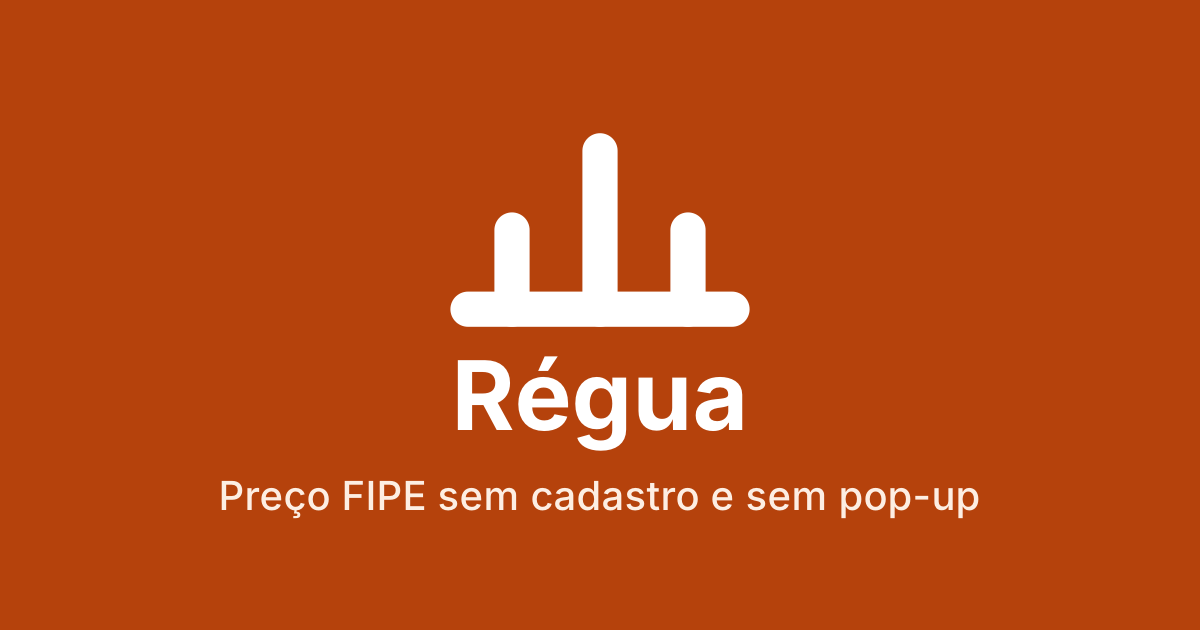
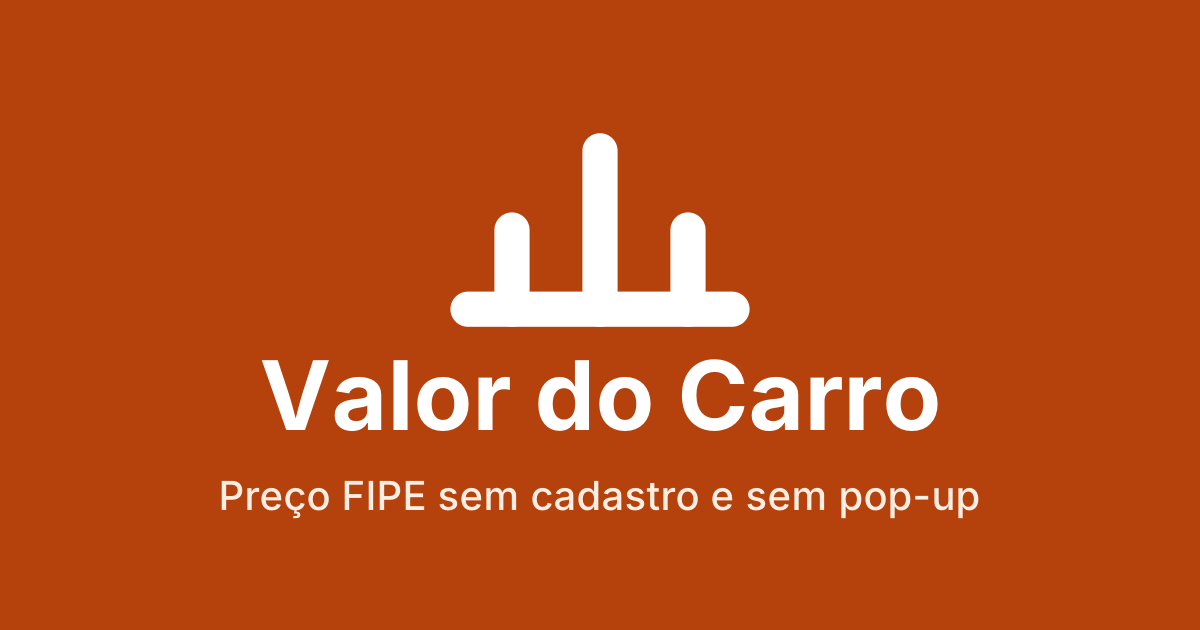
Rename the app to Valor do Carro
Display name, every screen (home, about, Plus, plate, consultant, sale
card, report, not-found), the consultant's prompt, the website and legal
pages, store listing (title "Valor do Carro: Preço e Placa"), store
forms, publishing guide, workflow names and the APK release title, with
the Portuguese articles switched to masculine (a Régua -> o Valor do
Carro). Logo, social image and Google Play feature graphic regenerated;
home store screenshots retaken. Package id, scheme and product ids are
unchanged, so installed apps update in place and purchases keep working.

Claude-Session: https://claude.ai/code/session_01LWRe1Kg9LAPnQmJb5DTp4G

Changed region(s): [[0.2158, 0.573, 0.8017, 0.7238]]

diff --git a/regua-app/app/landing/suporte.html b/regua-app/app/landing/suporte.html
@@ -1,20 +1,20 @@
 <!doctype html>
 <html lang="pt-BR"><head><meta charset="utf-8"><meta name="viewport" content="width=device-width,initial-scale=1">
 <link rel="icon" href="favicon.png"><link rel="stylesheet" href="legal.css">
-<title>Suporte · Régua</title>
-<meta name="description" content="Ajuda da Régua: assinatura, dados, anúncios e contato.">
+<title>Suporte · Valor do Carro</title>
+<meta name="description" content="Ajuda do Valor do Carro: assinatura, dados, anúncios e contato.">
 </head><body>
-<header><a href="index.html"><img src="icon.png" alt="">Régua</a></header>
+<header><a href="index.html"><img src="icon.png" alt="">Valor do Carro</a></header>
 <main>
 <h1>Ajuda e suporte</h1>
 <p>Não achou a resposta? Escreva para <strong class="todo">[e-mail de suporte]</strong>. Respondemos em até 2 dias úteis.</p>
 
 <h2>Consultas</h2>
 <details><summary>Preciso criar conta?</summary><p>Não. A consulta é grátis e sem cadastro.</p></details>
-<details><summary>De onde vêm os preços?</summary><p>Da tabela FIPE, atualizada todo mês. A Régua não é afiliada à FIPE.</p></details>
-<details><summary>Como funciona a busca por placa?</summary><p>Digite a placa no início do app (formato antigo ABC1234 ou Mercosul ABC1D23). A Régua descobre o modelo e abre o preço FIPE. São 3 buscas por placa por dia no plano grátis e 30 no Plus. A busca por marca e modelo não tem limite.</p></details>
+<details><summary>De onde vêm os preços?</summary><p>Da tabela FIPE, atualizada todo mês. O Valor do Carro não é afiliado à FIPE.</p></details>
+<details><summary>Como funciona a busca por placa?</summary><p>Digite a placa no início do app (formato antigo ABC1234 ou Mercosul ABC1D23). O Valor do Carro descobre o modelo e abre o preço FIPE. São 3 buscas por placa por dia no plano grátis e 30 no Plus. A busca por marca e modelo não tem limite.</p></details>
 <details><summary>A placa mostrou o modelo errado ou várias versões</summary><p>Os dados vêm de um fornecedor de consulta veicular e às vezes uma placa corresponde a mais de uma versão na tabela FIPE. Escolha a sua na lista ou busque pela marca e pelo modelo.</p></details>
-<details><summary>Vocês mostram o dono do veículo?</summary><p>Não. A Régua não recebe nem mostra dados pessoais do proprietário.</p></details>
+<details><summary>Vocês mostram o dono do veículo?</summary><p>Não. O Valor do Carro não recebe nem mostra dados pessoais do proprietário.</p></details>
 <details><summary>Quando a tabela do mês aparece?</summary><p>Assim que a nova tabela é publicada e importada, normalmente nos primeiros dias do mês. A tela de preço mostra de qual mês é o valor.</p></details>
 <details><summary>Por que o preço é diferente do anúncio que eu vi?</summary><p>A tabela FIPE é uma média de referência. O preço real varia com o estado, a quilometragem, a região e a versão do veículo.</p></details>
 <details><summary>Meus favoritos sumiram</summary><p>Favoritos e histórico ficam só no aparelho. Se você trocou de celular, desinstalou o app ou limpou os dados dele, eles foram apagados.</p></details>
@@ -29,10 +29,10 @@
 <details><summary>Paguei e o relatório não apareceu</summary><p>Sua compra fica guardada no aparelho. Abra Ferramentas › Histórico do veículo e toque em "Buscar meu relatório". Se a placa não for encontrada, a mesma compra vale para tentar de novo. Se não resolver, fale com a gente com o número do pedido da loja.</p></details>
 <details><summary>Onde vejo os relatórios que comprei?</summary><p>Em Histórico do veículo › Meus relatórios, neste aparelho.</p></details>
 
-<h2>Régua Plus</h2>
+<h2>Valor do Carro Plus</h2>
 <details><summary>O que o Plus inclui?</summary><p>Uso sem anúncios, até 30 buscas por placa e 50 perguntas ao Consultor por dia. A consulta por marca e modelo é igual nos dois planos.</p></details>
 <details><summary>Como cancelo?</summary><p>No app, em <em>Sobre › Gerenciar ou cancelar assinatura</em>. Ou direto na loja: no Android, Google Play › seu perfil › Pagamentos e assinaturas › Assinaturas; no iPhone, Ajustes › seu nome › Assinaturas. O Plus continua até o fim do período já pago.</p></details>
-<details><summary>Troquei de celular e o Plus não aparece</summary><p>Abra <em>Sobre › Régua Plus</em> e toque em <em>Restaurar compra</em>, usando a mesma conta Google ou Apple da assinatura.</p></details>
+<details><summary>Troquei de celular e o Plus não aparece</summary><p>Abra <em>Sobre › Valor do Carro Plus</em> e toque em <em>Restaurar compra</em>, usando a mesma conta Google ou Apple da assinatura.</p></details>
 <details><summary>Quero reembolso</summary><p>A cobrança é feita pela loja. Peça pela Google Play (play.google.com › Histórico de pedidos) ou pela Apple (reportaproblem.apple.com). Se tiver dificuldade, fale com a gente.</p></details>
 
 <h2>Anúncios e privacidade</h2>

diff --git a/regua-app/app/landing/termos.html b/regua-app/app/landing/termos.html
@@ -1,21 +1,21 @@
 <!doctype html>
 <html lang="pt-BR"><head><meta charset="utf-8"><meta name="viewport" content="width=device-width,initial-scale=1">
 <link rel="icon" href="favicon.png"><link rel="stylesheet" href="legal.css">
-<title>Termos de uso · Régua</title>
-<meta name="description" content="Termos de uso do app Régua e da assinatura Régua Plus.">
+<title>Termos de uso · Valor do Carro</title>
+<meta name="description" content="Termos de uso do app Valor do Carro e da assinatura Valor do Carro Plus.">
 </head><body>
-<header><a href="index.html"><img src="icon.png" alt="">Régua</a></header>
+<header><a href="index.html"><img src="icon.png" alt="">Valor do Carro</a></header>
 <main>
 <h1>Termos de uso</h1>
 <p class="muted">Última atualização: 14 de outubro de 2026</p>
 <p class="todo">Fornecedor: <strong>[nome completo ou razão social e CPF/CNPJ]</strong>, contato <strong>[e-mail]</strong>.</p>
 
-<h2>1. O que a Régua faz</h2>
-<p>A Régua mostra preços de veículos com base na tabela FIPE. Os valores são uma <strong>referência</strong>: o preço praticado no mercado pode variar com o estado do veículo, a região, a versão e outros fatores. Não use a Régua como única base para comprar, vender, financiar ou fazer seguro.</p>
-<p>A Régua não é afiliada, patrocinada nem endossada pela Fundação Instituto de Pesquisas Econômicas (FIPE).</p>
+<h2>1. O que o Valor do Carro faz</h2>
+<p>O Valor do Carro mostra preços de veículos com base na tabela FIPE. Os valores são uma <strong>referência</strong>: o preço praticado no mercado pode variar com o estado do veículo, a região, a versão e outros fatores. Não use o Valor do Carro como única base para comprar, vender, financiar ou fazer seguro.</p>
+<p>O Valor do Carro não é afiliado, patrocinado nem endossado pela Fundação Instituto de Pesquisas Econômicas (FIPE).</p>
 
 <h2>2. Uso gratuito</h2>
-<p>Consultar preços é grátis e não exige cadastro. A versão gratuita exibe um banner de anúncio. A Régua nunca mostra anúncios de tela cheia ou pop-ups.</p>
+<p>Consultar preços é grátis e não exige cadastro. A versão gratuita exibe um banner de anúncio. O Valor do Carro nunca mostra anúncios de tela cheia ou pop-ups.</p>
 
 <h2>2a. Busca por placa</h2>
 <p>A busca por placa usa um fornecedor de dados veiculares e tem limite diário por aparelho (3 consultas no plano grátis, 30 no Plus). Os dados vêm de terceiros e podem estar incompletos ou desatualizados; quando a placa corresponde a mais de uma versão, você escolhe a sua. Não mostramos dados do proprietário.</p>
@@ -26,7 +26,7 @@
 <h2>2c. Relatório de histórico do veículo</h2>
 <p>O relatório de histórico é uma compra avulsa feita pela loja: cada compra gera um relatório para uma placa. Os dados (leilão, roubo ou furto, sinistro, financiamento, restrições e recall) vêm de bases de terceiros, na data da consulta, e podem estar incompletos ou desatualizados; "sem informação" não significa ausência de registro. Se o relatório não puder ser gerado (serviço fora do ar ou placa não encontrada), sua compra continua válida para tentar de novo, inclusive com outra placa. O relatório fica salvo no seu aparelho. Não mostramos dados do proprietário. Confirme sempre no Detran e faça vistoria antes de comprar.</p>
 
-<h2>3. Régua Plus</h2>
+<h2>3. Valor do Carro Plus</h2>
 <ul>
 <li>O Plus remove os anúncios e aumenta os limites de buscas por placa e de perguntas ao Consultor. A consulta de preços por marca e modelo continua igual nos dois planos.</li>
 <li>É uma assinatura mensal ou anual, cobrada pela Google Play ou pela App Store, com renovação automática até você cancelar. O preço é o mostrado pela loja no momento da compra.</li>
@@ -36,10 +36,10 @@
 </ul>
 
 <h2>4. Disponibilidade</h2>
-<p>Fazemos o possível para manter a Régua no ar e com a tabela do mês, mas podem ocorrer interrupções, atrasos na atualização ou erros nos dados de terceiros. Quando soubermos de um erro, corrigimos assim que possível.</p>
+<p>Fazemos o possível para manter o Valor do Carro no ar e com a tabela do mês, mas podem ocorrer interrupções, atrasos na atualização ou erros nos dados de terceiros. Quando soubermos de um erro, corrigimos assim que possível.</p>
 
 <h2>5. Uso permitido</h2>
-<p>Não é permitido copiar o banco de dados em massa, fazer engenharia reversa para extrair dados ou usar a Régua de forma que prejudique o serviço ou outras pessoas.</p>
+<p>Não é permitido copiar o banco de dados em massa, fazer engenharia reversa para extrair dados ou usar o Valor do Carro de forma que prejudique o serviço ou outras pessoas.</p>
 
 <h2>6. Responsabilidade</h2>
 <p>Na medida permitida pela lei, não respondemos por decisões tomadas apenas com base nos valores exibidos. Nada nestes termos limita direitos garantidos pelo Código de Defesa do Consumidor.</p>

diff --git a/regua-app/app/landing/privacidade.html b/regua-app/app/landing/privacidade.html
@@ -1,15 +1,15 @@
 <!doctype html>
 <html lang="pt-BR"><head><meta charset="utf-8"><meta name="viewport" content="width=device-width,initial-scale=1">
 <link rel="icon" href="favicon.png"><link rel="stylesheet" href="legal.css">
-<title>Política de privacidade · Régua</title>
-<meta name="description" content="Como a Régua trata dados pessoais, conforme a LGPD.">
+<title>Política de privacidade · Valor do Carro</title>
+<meta name="description" content="Como o Valor do Carro trata dados pessoais, conforme a LGPD.">
 </head><body>
-<header><a href="index.html"><img src="icon.png" alt="">Régua</a></header>
+<header><a href="index.html"><img src="icon.png" alt="">Valor do Carro</a></header>
 <main>
 <h1>Política de privacidade</h1>
 <p class="muted">Última atualização: 14 de outubro de 2026</p>
 
-<p>A Régua é um app para consultar o preço de veículos na tabela FIPE. Ele foi feito para funcionar <strong>sem cadastro</strong>: você não informa nome, e-mail nem telefone para usar. Esta política explica, em linguagem simples, o pouco que é tratado e por quê, conforme a Lei Geral de Proteção de Dados (Lei nº 13.709/2018, LGPD).</p>
+<p>O Valor do Carro é um app para consultar o preço de veículos na tabela FIPE. Ele foi feito para funcionar <strong>sem cadastro</strong>: você não informa nome, e-mail nem telefone para usar. Esta política explica, em linguagem simples, o pouco que é tratado e por quê, conforme a Lei Geral de Proteção de Dados (Lei nº 13.709/2018, LGPD).</p>
 
 <h2>Quem é o responsável</h2>
 <p class="todo">Controlador: <strong>[nome completo ou razão social e CPF/CNPJ]</strong>. Contato para privacidade: <strong>[e-mail]</strong>.</p>
@@ -27,11 +27,11 @@
 <tr><td>Código aleatório do aparelho (criado na primeira busca por placa)</td><td>Aplicar o limite diário de buscas por placa</td><td>Nós, no Supabase. Apagado após 7 dias</td><td>Legítimo interesse (art. 7º, IX)</td></tr>
 <tr><td>Placa do relatório de histórico (compra avulsa)</td><td>Gerar o relatório de histórico do veículo que você comprou</td><td>Enviada ao fornecedor de dados veiculares <strong class="todo">[nome do fornecedor de histórico]</strong>. Guardamos o relatório por 7 dias ligado só ao código irreversível da placa, e o código da compra para que ela seja usada uma única vez. O relatório comprado fica salvo no seu aparelho</td><td>Execução de contrato (art. 7º, V)</td></tr>
 <tr><td>Perguntas enviadas ao Consultor (e o veículo escolhido)</td><td>Gerar a resposta com inteligência artificial</td><td>Anthropic, PBC (modelo Claude), que processa a pergunta para responder. Nós não guardamos as perguntas nem as respostas; o histórico da conversa fica só no aparelho enquanto a tela está aberta</td><td>Execução do serviço que você pediu (art. 7º, V)</td></tr>
-<tr><td>Assinatura Régua Plus: um código anônimo de cliente e o recibo da compra</td><td>Liberar o Plus e permitir restaurar a compra em outro aparelho</td><td>RevenueCat, Inc., Google Play e App Store</td><td>Execução de contrato (art. 7º, V)</td></tr>
+<tr><td>Assinatura Valor do Carro Plus: um código anônimo de cliente e o recibo da compra</td><td>Liberar o Plus e permitir restaurar a compra em outro aparelho</td><td>RevenueCat, Inc., Google Play e App Store</td><td>Execução de contrato (art. 7º, V)</td></tr>
 </table></div>
 <p><strong>Pagamentos:</strong> são feitos inteiramente pela Google Play ou pela App Store. Nós nunca vemos nem guardamos dados do seu cartão.</p>
 <p><strong>Consultas de preço:</strong> o app busca os preços no nosso banco de dados. Essas buscas não são associadas a você.</p>
-<p><strong>Busca por placa:</strong> a Régua não recebe nem mostra dados do proprietário (nome, CPF, endereço). O fornecedor devolve apenas dados do veículo.</p>
+<p><strong>Busca por placa:</strong> o Valor do Carro não recebe nem mostra dados do proprietário (nome, CPF, endereço). O fornecedor devolve apenas dados do veículo.</p>
 
 <h2>O que não fazemos</h2>
 <ul>
@@ -61,7 +61,7 @@
 </ul>
 
 <h2>Crianças e adolescentes</h2>
-<p>A Régua não é direcionada a menores de 13 anos e não coleta conscientemente dados de crianças.</p>
+<p>O Valor do Carro não é direcionado a menores de 13 anos e não coleta conscientemente dados de crianças.</p>
 
 <h2>Segurança</h2>
 <p>As conexões são criptografadas (HTTPS). O acesso ao banco de dados é restrito por regras que impedem o app de ler as contagens de uso.</p>

diff --git a/regua-app/app/landing/index.html b/regua-app/app/landing/index.html
@@ -1,9 +1,9 @@
 <!doctype html>
 <html lang="pt-BR"><head><meta charset="utf-8"><meta name="viewport" content="width=device-width,initial-scale=1">
-<title>Régua: o preço FIPE, sem cadastro e sem pop-up</title>
+<title>Valor do Carro: o preço FIPE, sem cadastro e sem pop-up</title>
 <meta name="description" content="Consulte o preço de carros, motos e caminhões pela tabela FIPE. Sem cadastro, sem pop-up.">
 <link rel="icon" href="favicon.png">
-<meta property="og:title" content="Régua: o preço FIPE, sem cadastro e sem pop-up">
+<meta property="og:title" content="Valor do Carro: o preço FIPE, sem cadastro e sem pop-up">
 <meta property="og:description" content="Consulte o preço de carros, motos e caminhões pela tabela FIPE. Sem cadastro, sem pop-up.">
 <meta property="og:image" content="social.png">
 <meta name="twitter:card" content="summary_large_image">
@@ -80,7 +80,7 @@ footer{padding:32px 0 48px;font-size:14px;line-height:20px;color:var(--color-tex
 @media (min-width:760px){.hero{grid-template-columns:1.1fr .9fr}h1{font-size:40px;line-height:44px}.grid.three{grid-template-columns:repeat(3,1fr)}.grid.two{grid-template-columns:repeat(2,1fr)}.grid.five{grid-template-columns:repeat(2,1fr)}}
 </style></head>
 <body>
-<div class="wrap"><header>Régua</header></div>
+<div class="wrap"><header>Valor do Carro</header></div>
 <main>
 <div class="wrap hero">
   <div>
@@ -89,7 +89,7 @@ footer{padding:32px 0 48px;font-size:14px;line-height:20px;color:var(--color-tex
     <a class="btn" href="../prototype/dist/index.html">Ver o app funcionando</a>
     <p class="soon">Em breve na Google Play e na App Store.</p>
   </div>
-  <figure><img class="shot" src="assets/result.png" alt="Tela da Régua mostrando o preço de um veículo de exemplo, com a variação do mês e o gráfico de evolução"><figcaption class="caption">Dados de exemplo.</figcaption></figure>
+  <figure><img class="shot" src="assets/result.png" alt="Tela do Valor do Carro mostrando o preço de um veículo de exemplo, com a variação do mês e o gráfico de evolução"><figcaption class="caption">Dados de exemplo.</figcaption></figure>
 </div>
 
 <section class="band"><div class="wrap">
@@ -110,7 +110,7 @@ footer{padding:32px 0 48px;font-size:14px;line-height:20px;color:var(--color-tex
 </div></section>
 
 <section class="band"><div class="wrap">
-  <h2>O que a Régua faz</h2>
+  <h2>O que o Valor do Carro faz</h2>
   <div class="grid two">
     <div class="card"><h3>Sem cadastro</h3><p class="muted">Abriu, consultou.</p></div>
     <div class="card"><h3>Sem pop-up</h3><p class="muted">Se houver anúncio, é um banner fixo, nunca no meio do caminho.</p></div>
@@ -134,7 +134,7 @@ footer{padding:32px 0 48px;font-size:14px;line-height:20px;color:var(--color-tex
 <section class="band"><div class="wrap">
   <h2>Perguntas</h2>
   <details><summary>Preciso criar conta?</summary><p>Não, para consultar.</p></details>
-  <details><summary>De onde vêm os preços?</summary><p>Da tabela FIPE. A Régua não é afiliada à Fundação Instituto de Pesquisas Econômicas (FIPE).</p></details>
+  <details><summary>De onde vêm os preços?</summary><p>Da tabela FIPE. O Valor do Carro não é afiliado à Fundação Instituto de Pesquisas Econômicas (FIPE).</p></details>
   <details><summary>O preço da tabela é o preço de mercado?</summary><p>Nem sempre. É uma referência e pode variar com o estado, a versão e a conservação do veículo.</p></details>
   <details><summary>Funciona para moto e caminhão?</summary><p>Sim.</p></details>
   <details><summary>Tem consulta por placa?</summary><p>Sim: 3 por dia no plano grátis e 30 no Plus. Sem dados do proprietário.</p></details>
@@ -146,5 +146,5 @@ footer{padding:32px 0 48px;font-size:14px;line-height:20px;color:var(--color-tex
   <a class="btn" href="../prototype/dist/index.html">Ver o app funcionando</a>
 </div></section>
 </main>
-<footer><div class="wrap">Régua. Os valores seguem a tabela FIPE e podem variar do preço praticado no mercado.<br><a href="suporte.html">Suporte</a> · <a href="privacidade.html">Privacidade</a> · <a href="termos.html">Termos de uso</a></div></footer>
+<footer><div class="wrap">Valor do Carro. Os valores seguem a tabela FIPE e podem variar do preço praticado no mercado.<br><a href="suporte.html">Suporte</a> · <a href="privacidade.html">Privacidade</a> · <a href="termos.html">Termos de uso</a></div></footer>
 </body></html>

diff --git a/regua-app/app/app/plus.tsx b/regua-app/app/app/plus.tsx
@@ -1,4 +1,4 @@
-// Régua Plus: removes the ad. Lookups stay free forever; there is no paywall in front of a price.
+// Valor do Carro Plus: removes the ad. Lookups stay free forever; there is no paywall in front of a price.
 import { useEffect, useState } from 'react';
 import { Alert, Linking, Platform, Pressable, ScrollView, StyleSheet, Text, View } from 'react-native';
 import { SafeAreaView } from 'react-native-safe-area-context';
@@ -9,7 +9,7 @@ import { track } from '../src/services/track.ts';
 import { Button, Header, Loading, Message, st as kit } from '../src/ui/kit.tsx';
 import { c, card, r, s, font, layout } from '../src/theme.ts';
 
-const PERKS = ['Sem anúncio em nenhuma tela', 'Até 30 consultas por placa por dia (3 no grátis)', '50 perguntas por dia ao Consultor (5 no grátis)', 'Ajuda a manter a Régua grátis para todo mundo', 'Cancele quando quiser, com um toque'];
+const PERKS = ['Sem anúncio em nenhuma tela', 'Até 30 consultas por placa por dia (3 no grátis)', '50 perguntas por dia ao Consultor (5 no grátis)', 'Ajuda a manter o Valor do Carro grátis para todo mundo', 'Cancele quando quiser, com um toque'];
 
 export default function Plus() {
   const plus = usePlus();
@@ -34,19 +34,19 @@ export default function Plus() {
     setBusy(true);
     const ok = await plus.restore();
     setBusy(false);
-    Alert.alert(ok ? 'Régua Plus restaurado' : 'Nenhuma assinatura encontrada',
-      ok ? 'Obrigado por apoiar a Régua.' : 'Use a mesma conta da loja em que você assinou.');
+    Alert.alert(ok ? 'Valor do Carro Plus restaurado' : 'Nenhuma assinatura encontrada',
+      ok ? 'Obrigado por apoiar o Valor do Carro.' : 'Use a mesma conta da loja em que você assinou.');
   };
 
   let body;
   if (!plus.available) {
-    body = <Message title="Assinatura indisponível nesta versão" detail="A Régua Plus aparece na versão instalada pela Play Store ou App Store." />;
+    body = <Message title="Assinatura indisponível nesta versão" detail="O Valor do Carro Plus aparece na versão instalada pela Play Store ou App Store." />;
   } else if (plus.isPlus) {
     body = (
       <View style={[card, st.box]}>
         <Feather name="check-circle" size={32} color={c.accent} />
-        <Text style={st.h1}>Você é Régua Plus</Text>
-        <Text style={kit.muted}>Obrigado por apoiar a Régua. Os anúncios estão desligados.</Text>
+        <Text style={st.h1}>Você é Valor do Carro Plus</Text>
+        <Text style={kit.muted}>Obrigado por apoiar o Valor do Carro. Os anúncios estão desligados.</Text>
         <View style={{ marginTop: s[4], alignSelf: 'stretch' }}>
           <Button variant="secondary" icon="settings" label="Gerenciar ou cancelar assinatura" onPress={plus.manage} />
         </View>
@@ -93,7 +93,7 @@ export default function Plus() {
 
   return (
     <SafeAreaView style={{ flex: 1 }} edges={['top', 'bottom']}>
-      <Header title="Régua Plus" back />
+      <Header title="Valor do Carro Plus" back />
       <ScrollView contentContainerStyle={{ padding: layout['screen-gutter'], paddingBottom: s[7] }}>
         <View style={{ gap: s[2], marginBottom: s[5] }}>
           {PERKS.map(p => (

diff --git a/regua-app/app/src/logic/report.ts b/regua-app/app/src/logic/report.ts
@@ -25,7 +25,7 @@ export function buildReportHtml(v: VehicleResult, generatedAt: Date, opts: { sam
     return `<tr><td>${esc(formatMonth(p.referenceMonth))}</td><td class="n">${esc(formatBRL(p.priceCents))}</td><td class="n">${esc(ch)}</td></tr>`;
   }).join('');
   const date = generatedAt.toLocaleDateString('pt-BR', { day: '2-digit', month: 'long', year: 'numeric', timeZone: 'America/Sao_Paulo' });
-  return `<!doctype html><html lang="pt-BR"><head><meta charset="utf-8"><title>Relatório Régua · ${esc(v.model.name)}</title>
+  return `<!doctype html><html lang="pt-BR"><head><meta charset="utf-8"><title>Relatório Valor do Carro · ${esc(v.model.name)}</title>
 <style>
 body{font-family:-apple-system,Roboto,Helvetica,Arial,sans-serif;color:#292929;margin:32px;font-size:14px;line-height:20px}
 h1{font-size:24px;line-height:30px;margin:0 0 4px}.muted{color:#5b6470}.brand{color:#b5420c;font-weight:700;font-size:18px}
@@ -34,7 +34,7 @@ h1{font-size:24px;line-height:30px;margin:0 0 4px}.muted{color:#5b6470}.brand{co
 table{width:100%;border-collapse:collapse;margin-top:8px}td,th{padding:6px 8px;border-bottom:1px solid #e3e6ea;text-align:left}.n{text-align:right}
 .note{margin-top:24px;font-size:12px;color:#5b6470}
 </style></head><body>
-<div class="brand">Régua</div>
+<div class="brand">Valor do Carro</div>
 <p class="muted">Relatório de preço · gerado em ${esc(date)}</p>
 <p class="muted">${esc(v.brand.name)} · ${esc(TYPE[v.brand.vehicleType])}</p>
 <h1>${esc(v.model.name)}</h1>
@@ -48,6 +48,6 @@ table{width:100%;border-collapse:collapse;margin-top:8px}td,th{padding:6px 8px;b
 ${chartSvg(v)}
 <h2 style="font-size:16px;margin-top:24px">Preço mês a mês</h2>
 <table><thead><tr><th>Mês</th><th class="n">Preço FIPE</th><th class="n">Variação</th></tr></thead><tbody>${rows}</tbody></table>
-<p class="note">${opts.sample ? '<b>Dados de exemplo, não são valores reais da tabela FIPE.</b> ' : ''}Valores da tabela FIPE, referência de preço médio; o preço de mercado pode variar com estado, quilometragem e região. A Régua não é afiliada à Fundação Instituto de Pesquisas Econômicas (FIPE).</p>
+<p class="note">${opts.sample ? '<b>Dados de exemplo, não são valores reais da tabela FIPE.</b> ' : ''}Valores da tabela FIPE, referência de preço médio; o preço de mercado pode variar com estado, quilometragem e região. O Valor do Carro não é afiliado à Fundação Instituto de Pesquisas Econômicas (FIPE).</p>
 </body></html>`;
 }

diff --git a/regua-app/app/app/advisor.tsx b/regua-app/app/app/advisor.tsx
@@ -43,7 +43,7 @@ export default function Advisor() {
     else {
       setTurns(t => t.slice(0, -1));        // keep the history valid: drop the unanswered question
       setDraft(question);
-      if (a.status === 'limit') setNotice({ text: `Você já fez as ${a.limit} perguntas de hoje.${!a.plus && plus.available ? ' Com o Régua Plus são mais perguntas por dia.' : ' Volte amanhã.'}`, plusOffer: !a.plus && plus.available });
+      if (a.status === 'limit') setNotice({ text: `Você já fez as ${a.limit} perguntas de hoje.${!a.plus && plus.available ? ' Com o Valor do Carro Plus são mais perguntas por dia.' : ' Volte amanhã.'}`, plusOffer: !a.plus && plus.available });
       else if (a.status === 'offline') setNotice({ text: 'Não deu para enviar. Confira sua conexão e tente outra vez.' });
       else setNotice({ text: 'O consultor está indisponível agora. Tente mais tarde.' });
     }
@@ -91,7 +91,7 @@ export default function Advisor() {
           {notice ? (
             <View style={[card, { padding: s[3], gap: s[2] }]} accessibilityLiveRegion="polite">
               <Text style={{ color: c.text, fontSize: font.sm.fontSize }}>{notice.text}</Text>
-              {notice.plusOffer ? <Text style={st.link} onPress={() => router.push('/plus')} accessibilityRole="link">Conhecer o Régua Plus</Text> : null}
+              {notice.plusOffer ? <Text style={st.link} onPress={() => router.push('/plus')} accessibilityRole="link">Conhecer o Valor do Carro Plus</Text> : null}
             </View>
           ) : null}
           <Text style={[kit.muted, { marginBottom: s[3] }]}>

diff --git a/regua-app/app/server/advisor/advisor.ts b/regua-app/app/server/advisor/advisor.ts
@@ -8,7 +8,7 @@ export const MAX_TURNS = 6;           // earlier turns sent back for context (3 
 export const MAX_TURN_CHARS = 1500;
 
 // Stable, cached prefix: never put per-request data (dates, prices, ids) in here.
-export const SYSTEM_PROMPT = `Você é o Consultor da Régua, um app brasileiro que mostra o preço da tabela FIPE de carros, motos e caminhões.
+export const SYSTEM_PROMPT = `Você é o Consultor do Valor do Carro, um app brasileiro que mostra o preço da tabela FIPE de carros, motos e caminhões.
 Você ajuda pessoas comuns a comprar e vender veículos usados com mais segurança.
 
 Como responder:
@@ -100,7 +100,7 @@ export async function askAdvisor(deps: AdvisorDeps, body: unknown): Promise<Advi
   const vehicle = modelYearId ? await deps.getVehicle(modelYearId).catch(() => null) : null;
   const today = (deps.now?.() ?? new Date()).toLocaleDateString('pt-BR', { timeZone: 'America/Sao_Paulo' });
   // volatile context goes in the user turn, after the cached system prompt
-  const context = [`Data de hoje: ${today}.`, vehicle ? `Dados do veículo (do catálogo da Régua):\n${vehicleFacts(vehicle)}` : 'Nenhum veículo selecionado.'].join('\n');
+  const context = [`Data de hoje: ${today}.`, vehicle ? `Dados do veículo (do catálogo do Valor do Carro):\n${vehicleFacts(vehicle)}` : 'Nenhum veículo selecionado.'].join('\n');
   const messages = [
     ...history.map(t => ({ role: t.role, content: t.text })),
     { role: 'user' as const, content: `${context}\n\nPergunta: ${question}` },

diff --git a/regua-app/app/app/(tabs)/about.tsx b/regua-app/app/app/(tabs)/about.tsx
@@ -19,13 +19,13 @@ export default function About() {
       <Header title="Sobre" />
       <ScrollView contentContainerStyle={{ paddingHorizontal: layout['screen-gutter'], paddingBottom: s[7], gap: s[5] }}>
         <View style={[card, { padding: s[4], gap: s[2] }]}>
-          <Text style={{ color: c.text, fontSize: font.base.fontSize }}>Régua mostra o preço da tabela FIPE, sem cadastro e sem pop-up.</Text>
-          <Text style={st.muted}>A Régua não é afiliada à Fundação Instituto de Pesquisas Econômicas (FIPE). Os valores seguem a tabela FIPE e podem variar do preço praticado no mercado.</Text>
+          <Text style={{ color: c.text, fontSize: font.base.fontSize }}>O Valor do Carro mostra o preço da tabela FIPE, sem cadastro e sem pop-up.</Text>
+          <Text style={st.muted}>O Valor do Carro não é afiliado à Fundação Instituto de Pesquisas Econômicas (FIPE). Os valores seguem a tabela FIPE e podem variar do preço praticado no mercado.</Text>
         </View>
 
         {plus.available ? (
           <List>
-            <Row title="Régua Plus" subtitle={plus.isPlus ? 'Ativo. Obrigado pelo apoio!' : 'Use sem anúncios'} onPress={() => router.push('/plus')} />
+            <Row title="Valor do Carro Plus" subtitle={plus.isPlus ? 'Ativo. Obrigado pelo apoio!' : 'Use sem anúncios'} onPress={() => router.push('/plus')} />
             {plus.isPlus ? <Row title="Gerenciar ou cancelar assinatura" onPress={plus.manage} /> : null}
           </List>
         ) : null}

diff --git a/regua-app/app/app/(tabs)/index.tsx b/regua-app/app/app/(tabs)/index.tsx
@@ -22,8 +22,8 @@ export default function Home() {
   return (
     <SafeAreaView style={{ flex: 1 }} edges={['top']}>
       <ScrollView contentContainerStyle={st.page}>
-        <Text style={st.brand} accessibilityRole="header">Régua</Text>
-        {usingSampleData ? <Text style={st.note}>Dados de exemplo. Configure o Supabase para ver preços reais.</Text> : null}
+        <Text style={st.brand} accessibilityRole="header">Valor do Carro</Text>
+        {usingSampleData ? <Text style={st.note}>Dados de exemplo, não são preços reais.</Text> : null}
 
         <View style={[card, st.findCard]}>
           <Text style={st.h2} accessibilityRole="header">Qual veículo você quer consultar?</Text>
@@ -54,7 +54,7 @@ export default function Home() {
           {insurance ? <InsuranceTool url={insurance.url} label={insurance.label} /> : null}
         </View>
 
-        {/* one fixed banner on the free plan, never pop-ups; hidden for Régua Plus */}
+        {/* one fixed banner on the free plan, never pop-ups; hidden for Valor do Carro Plus */}
         <View style={st.ad}><AdBanner /></View>
       </ScrollView>
     </SafeAreaView>

diff --git a/regua-app/app/app/plate.tsx b/regua-app/app/app/plate.tsx
@@ -69,8 +69,8 @@ export default function Plate() {
       <View style={{ gap: s[3] }}>
         <Message title={`Você já fez as ${answer.limit} consultas por placa de hoje.`}
           detail={answer.plus ? 'O limite volta amanhã. A busca por marca e modelo continua livre.'
-            : plus.available ? 'Amanhã tem mais. Com o Régua Plus você consulta mais placas por dia.' : 'Amanhã tem mais. A busca por marca e modelo continua livre.'} />
-        {!answer.plus && plus.available ? <Button label="Conhecer o Régua Plus" onPress={() => router.push('/plus')} /> : null}
+            : plus.available ? 'Amanhã tem mais. Com o Valor do Carro Plus você consulta mais placas por dia.' : 'Amanhã tem mais. A busca por marca e modelo continua livre.'} />
+        {!answer.plus && plus.available ? <Button label="Conhecer o Valor do Carro Plus" onPress={() => router.push('/plus')} /> : null}
         {manual}
       </View>
     );

diff --git a/regua-app/app/app/+not-found.tsx b/regua-app/app/app/+not-found.tsx
@@ -8,7 +8,7 @@ import { layout, s } from '../src/theme.ts';
 export default function NotFound() {
   return (
     <SafeAreaView style={{ flex: 1 }} edges={['top', 'bottom']}>
-      <Header title="Régua" />
+      <Header title="Valor do Carro" />
       <View style={{ padding: layout['screen-gutter'], gap: s[3] }}>
         <Message title="Não encontramos esta página." detail="O link pode estar errado ou ser de uma versão antiga do app." />
         <Button label="Ir para o início" icon="home" onPress={() => router.replace('/')} />
